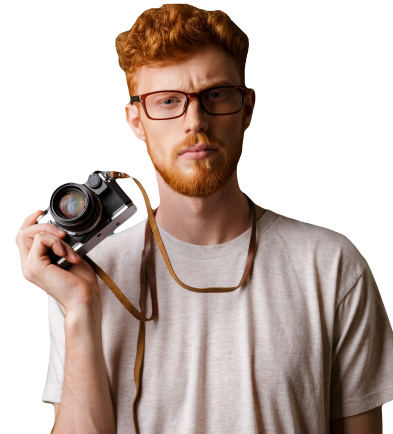
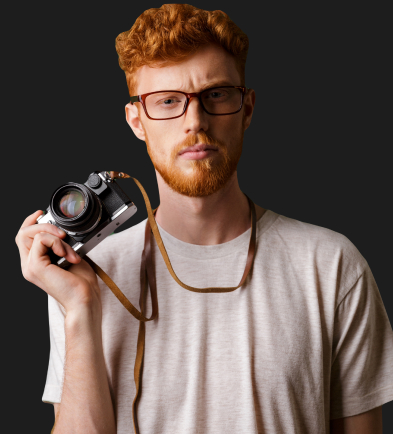
finish

diff --git a/src/css/hero.css b/src/css/hero.css
@@ -1,5 +1,4 @@
 .hero{
-    background: var(--black, #121212);
     padding: 20px 20px 80px 20px;
 }
 .hero-container{
@@ -26,8 +25,7 @@
     color: #BEA69E;
     font-family: 'DM Sans', sans-serif;
     font-size: 40px;
-    font-style: italic; /* no italic in   <link href="https://fonts.googleapis.com/css2?family=DM+Sans:opsz,wght@9..40,400;9..40,500&display=swap"
-    rel="stylesheet"> */
+    font-style: italic; 
     font-weight: 400;
     line-height: 1.1;
     letter-spacing: -0.04em;
@@ -46,74 +44,48 @@
     margin-right: 20px;
 }
 .hero-img{
-    margin-top: 31px;
-    margin-left: 38px;
-    margin-right: 38px;
+    margin: 0 auto;
+    padding-top: 31px;
 }
-.three-photo{
+
+
+.review-list {
+    display: flex;
+    padding-left: 20px;
+    padding-top: 40px;
+}
+.three-photo-list {
+    display: flex;
+}
+.three-photo-list-item:nth-child(1){
+    margin-right: -12px;
+}
+.three-photo-list-item:nth-child(2){
+    margin-right: -12px;
+}
+.three-photo-list-item-img {
+    border-radius: 100px;
+    border: 2px solid #1D1D1D;
+}
+.imgone {
     position: relative;
-    margin-top: 40px;
-    margin-left: 20px;
-}
-.three-photo-list{
-    display: flex;
-}
-.three-photo-list-item-img1{
-    position: absolute;
-    border-radius: 100px;
-    border: 2px solid #1D1D1D;
     z-index: 3;
-    margin-left: 0;
 }
-.three-photo-list-item-img2{
-    position: absolute;
-    border-radius: 100px;
-    border: 2px solid #1D1D1D;
+.imgotwo {
+    position: relative;
     z-index: 2;
-    margin-left: 32px;
 }
-.three-photo-list-item-img3{
-    position: absolute;
-    border-radius: 100px;
-    border: 2px solid #1D1D1D;
+.imgthree {
+    position: relative;
     z-index: 1;
-    margin-left: 64px;
 }
-.review-star-list-item-let{
-    color: rgba(255, 255, 255, 0.50);
-    font-family: 'DM Sans', sans-serif;
-    font-size: 14px;
-    font-style: normal;
-    font-weight: 400;
-    line-height: 1.285; 
-    letter-spacing: -0.04em;
-}
-.review-star-list-item-num{
-    color: #FFF;
-    font-family: 'DM Sans', sans-serif;
-    font-size: 16px;
-    font-style: normal;
-    font-weight: 500;
-    line-height: 1.125;
-    letter-spacing: -0.04em;
-    margin-top: 4px;
-}
-.review-star-list-item-art{
-    height: 44px;
-    width: 44px;
-    border-radius: 100px;
-    background-color: #BEA69E;
-    display: flex;
-    align-items: center;
-    justify-content: center;
-}
-.review-star-list{
+.review-stud-list {
     display: flex;
     flex-wrap: wrap;
-    margin-left: 189px;
-    gap: 12px;
+    align-items: center;
+    padding-top: 4px;
 }
-.stud{
+.stud {
     color: #FFF;
     font-family: 'DM Sans', sans-serif;
     font-size: 14px;
@@ -123,19 +95,44 @@
     letter-spacing: -0.04em;
     width: 67px;
 }
-.review-stud-list{
+.review-stud-list-item-arr {
+    padding-left: 4px;
+}
+.review-star {
+    width: 104px;
+    padding-left: 40px;
+}
+.review-star-list {
+    gap: 12px;
     display: flex;
-    flex-wrap: wrap;
 }
-.review-stud{
-    padding-left: 20px;
+.review-star-list-item-art {
+    height: 44px;
+    width: 44px;
+    border-radius: 100px;
+    background-color: #BEA69E;
+    display: flex;
+    align-items: center;
+    justify-content: center;
 }
-.review-stud-list-item-arr{
-    margin-left: 4px;
+.review-star-list-item-let {
+    color: rgba(255, 255, 255, 0.50);
+    font-family: 'DM Sans', sans-serif;
+    font-size: 14px;
+    font-style: normal;
+    font-weight: 400;
+    line-height: 1.285; /* 128.571% */
+    letter-spacing: -0.04em;
 }
-
-
-
+.review-star-list-item-num {
+    color: #FFF;
+    font-family: 'DM Sans', sans-serif;
+    font-size: 16px;
+    font-style: normal;
+    font-weight: 500;
+    line-height: 1.125; 
+    letter-spacing: -0.04em;
+}
 
 @media screen and (min-width:768px){
     .hero-container{
@@ -159,15 +156,70 @@
         margin-bottom: 40px;
         margin-right: 254px;
     }
+    .review-list-photo-stud{
+        display: flex;
+    }
+    .review-stud-list{
+        padding-left: 12px;
+        flex-wrap: wrap;
+        width: 82px;
+    }
+    .stud{
+        font-size: 16px;
+        font-weight: 400;
+        line-height: 1.25;
+        width: 82px;
+    }
+    .review-stud-list-item-arr{
+        padding-left: unset;
+    }
+    .review-star-list-item-let{
+        font-size: 16px;
+        font-weight: 400;
+        line-height: 1.25; 
+        letter-spacing: -0.04em
+    }
+    .review-star-list-item-num{
+        font-size: 16px;
+        font-weight: 500;
+        line-height: 1.25; 
+        letter-spacing: -0.04em;
+        padding-top: 8px;
+    }
     .hero-img{
-        margin-top: 40px;
-        margin-left: 156px;
-        margin-right: 156px;
+        padding-top: 40px;
     }
-    .three-photo{
-        margin-left: 32px;
+}
+@media screen and (min-width:1280px){
+    .hero-container{
+        max-width: 1280px;
     }
-    .review-star-list{
-        margin-left: 303px;
+    .hero-title{
+        min-width: 563px;
+        font-size: 64px;
+        font-weight: 500;
+        line-height: 1.06;
+        letter-spacing: -0.04em;
+        padding-top: 80px;
+        padding-left: 50px;
     }
+    .hero-title-ph{
+        font-size: 64px;  
+    }
+    .hero-txt{
+        margin-top: 20px;
+        margin-left: 50px;
+    }
+    .review-list{
+        padding-left: 50px;
+        padding-top: 136px;
+        padding-bottom: 50px;
+    }
+    .hero-img{
+        position: relative;
+        margin-left: 633px;
+        margin-top: -520px;
+        padding-top: unset;
+    }
+
 }

diff --git a/src/partials/hero.html b/src/partials/hero.html
@@ -5,8 +5,12 @@
         <a class="hero-txt">Our photography school offers an unforgettable journey, where you can learn the basics of composition, master technical skills, translate your unique ideas.</a>
         </div>
         <div class="review">
-            <div class="three-photo">
-                <ul class="three-photo-list">
+        <ul class="review-list">
+            <li class="review-list-item">
+                <ul class="review-list-photo-stud">
+                    <li class="review-list-photo-stud-item">
+                        <div class="three-photo">
+                            <ul class="three-photo-list">
                     <li class="three-photo-list-item">
                         <picture class="imgone">
                             <source 
@@ -19,9 +23,9 @@
                             >
                             <img src="/img/hero/girl1mob.jpg" 
                             alt="camera"
-                            width="44"
-                            height="44"
-                            class="three-photo-list-item-img1">
+                            width=""
+                            height=""
+                            class="three-photo-list-item-img">
                         </picture>
                     </li>
                     <li class="three-photo-list-item">
@@ -36,9 +40,9 @@
                             >
                             <img src="/img/hero/boymob.jpg" 
                             alt="camera"
-                            width="44"
-                            height="44"
-                            class="three-photo-list-item-img2">
+                            width=""
+                            height=""
+                            class="three-photo-list-item-img">
                         </picture>
                     </li>
                     <li class="three-photo-list-item">
@@ -53,14 +57,34 @@
                             >
                             <img src="/img/hero/girl1mob.jpg" 
                             alt="camera"
-                            width="44"
-                            height="44"
-                            class="three-photo-list-item-img3">
+                            width=""
+                            height=""
+                            class="three-photo-list-item-img">
                         </picture>
                     </li>
                 </ul>
-            </div>
-            <div class="review-star">
+                        </div> 
+                    </li>  
+                    <li class="review-list-photo-stud-item">
+                        <div class="review-stud">
+                <ul class="review-stud-list">
+                    <li class="review-stud-list-item">
+                        <p class="stud">Our happy students</p>
+                    </li>
+                    <li class="review-stud-list-item">
+                        <a class="review-stud-list-item-arr">
+                            <svg class="arrow" width="18" height="8.66">
+                                <use href="/img/icons.svg#icon-Arrow-2-Stroke"></use>
+                            </svg>
+                        </a>
+                    </li>
+                </ul>
+                        </div>
+                    </li>
+                </ul>
+            </li>
+            <li class="review-list-item">
+                <div class="review-star">
                 <ul class="review-star-list">
                     <li class="review-star-list-item">
                         <a class="review-star-list-item-art">
@@ -78,23 +102,10 @@
                         </p>
                     </li>
                 </ul>
-            </div>
-            <div class="review-stud">
-                <ul class="review-stud-list">
-                    <li class="review-stud-list-item">
-                        <p class="stud">Our happy students</p>
-                    </li>
-                    <li class="review-stud-list-item">
-                        <a class="review-stud-list-item-arr">
-                            <svg class="arrow" width="18" height="8.66">
-                                <use href="/img/icons.svg#icon-Arrow-2-Stroke"></use>
-                            </svg>
-                        </a>
-                    </li>
-                </ul>
-            </div>
+                </div>
+            </li>
+        </ul>
         </div> 
-
         <picture>
             <source 
             srcset="/img/hero/hero-main-des.jpg 1x, /img/hero/hero-main-des-2x.jpg 2x"
@@ -110,9 +121,11 @@
             >
             <img src="/img/hero/hero-main-mob.jpg" 
             alt="camera"
-            width="259"
-            height="314"
+            width="auto"
+            height="auto"
             class="hero-img">
         </picture> 
     </div>
 </section>
+
+
